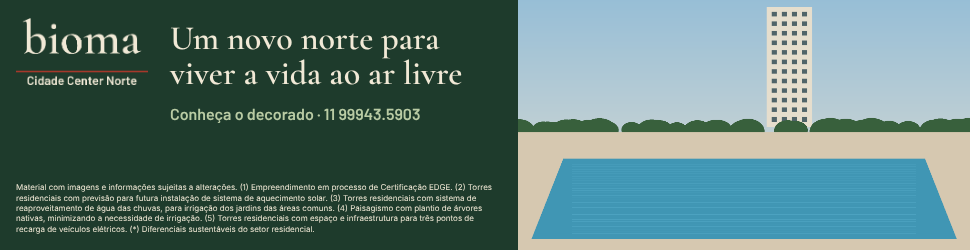
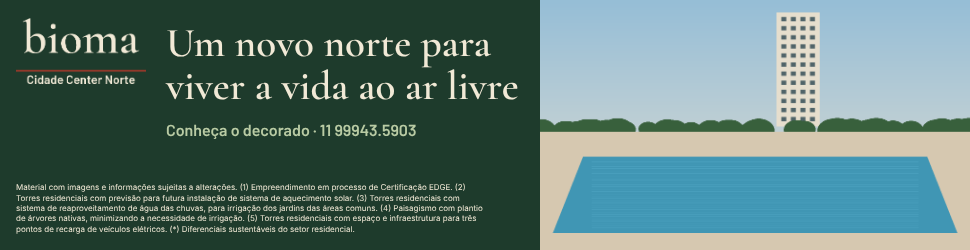
Bancada: replica R3b bioma_piscina e R2 otium_spa
Claude-Session: https://claude.ai/code/session_01FAXgPMdKXzkkk9D8mSifwb

Changed region(s): [[0.0, 0.0, 1.0, 1.0], [0.0, 0.784, 0.4948, 0.952], [0.9897, 0.448, 1.0, 0.476]]

diff --git a/bancada/runs/R01/scripts/R2/bioma_produto.py b/bancada/runs/R01/scripts/R2/bioma_produto.py
@@ -184,13 +184,13 @@ def lay_email(F):
     return [hero, logo, hl, selo, cta, legal]
 
 
-def lay_card(F, shrink=0, hw=0, cs=26, ss=29):
+def lay_card(F, shrink=0, hw=0, cs=26, ss=29, hs=52):
     W, H, M = F["width"], F["height"], F["margin"]
-    xp = 540  # foto ocupa a metade direita, sangrada
+    xp = 560  # foto ocupa a metade direita, sangrada (520px: ~88% do predio visivel)
     tw = xp - 2 * M + 10
     logo = logo_el(M, M, 190)
     lg = logo["geometry"]
-    hl = text_el("headline", M, lg["y"] + lg["height"] + 50, tw - hw, 56)
+    hl = text_el("headline", M, lg["y"] + lg["height"] + 50, tw - hw, hs)
     legal = text_el("legal", M, 0, tw - shrink, 14)
     legal["geometry"]["y"] = H - M - legal["_m"]["box_h"]
     selo = text_el("selo", M, hl["geometry"]["y"] + hl["geometry"]["height"] + 44, tw, ss)
@@ -311,7 +311,7 @@ def near_pairs(F, els, pad=6):
 
 
 GRID = {  # variacoes pequenas e legitimas (largura de coluna, corpo do selo/cta) para fugir de quase-alinhamentos
-    "card_1080x1080": dict(cs=[26, 27], ss=[29, 30, 31], hw=[0, 20, 40]),
+    "card_1080x1080": dict(cs=[26, 27], ss=[29, 30, 31], hw=[0, 20, 40], hs=[48, 50, 52, 54, 56]),
     "banner_970x250": dict(cs=[14, 14.5, 15], ss=[16, 17, 18], hw=[0, 20, 40, 60]),
     "stories_1080x1920": dict(cs=[34], ss=[40], hw=[0, 40, 80]),
 }
@@ -324,11 +324,12 @@ def build(fk, F):
     import itertools
     g = GRID[fk]
     best = None
-    for cs, ss, hw in itertools.product(g["cs"], g["ss"], g["hw"]):
+    for cs, ss, hw, hs in itertools.product(g["cs"], g["ss"], g["hw"], g.get("hs", [None])):
         if ss <= cs:
             continue
+        kw = {"hs": hs} if hs else {}
         for sh in range(0, 44, 4):  # coluna do legal encolhe no maximo 40px (legibilidade)
-            els = fn(F, sh, hw, cs, ss)
+            els = fn(F, sh, hw, cs, ss, **kw)
             E = {e["id"]: (ext(e) if e["type"] == "TEXT" else bx(e)) for e in els}
             A = {k: v["w"] * v["h"] for k, v in E.items()}
             # preserva as relacoes de tamanho da mestra: headline >> legal, selo ~ cta
@@ -336,12 +337,12 @@ def build(fk, F):
             hlm = next(e for e in els if e["id"] == "headline")["_m"]
             widow = hlm["n"] > 1 and " " not in hlm["lines"][-1]  # palavra orfa na ultima linha do titulo
             n = len(near_pairs(F, els)) + 3 * viol + 5 * widow
-            key = (n, hw + sh)
+            key = (n, hw + sh, -(hs or 0))
             if best is None or key < best[0]:
-                best = (key, (sh, hw, cs, ss))
-    sh, hw, cs, ss = best[1]
-    print(f"  {fk}: grid best near={best[0][0]} shrink={sh} hw={hw} cta={cs} selo={ss}")
-    return fn(F, sh, hw, cs, ss)
+                best = (key, (sh, hw, cs, ss, kw))
+    sh, hw, cs, ss, kw = best[1]
+    print(f"  {fk}: grid best pen={best[0][0]} shrink={sh} hw={hw} cta={cs} selo={ss} {kw}")
+    return fn(F, sh, hw, cs, ss, **kw)
 
 
 def main():

diff --git a/bancada/runs/R01/scripts/R2/bioma_piscina.py b/bancada/runs/R01/scripts/R2/bioma_piscina.py
@@ -300,7 +300,8 @@ def banner(fk, P):
     cs = style_of("cta", P["c"])
     cw_, cb = robust_width(S["cta"]["text"], cs, right - hx)
     ls = style_of("legal", P["l"], P.get("llh", 1.3))
-    lb = block(S["legal"]["text"], ls, right - m - 4)
+    lwid = P.get("legal_w", right - m)
+    lb = block(S["legal"]["text"], ls, lwid - 4)
     hv = hb["ext_bottom"] + hb["top_over"]
     cv = cb["ext_bottom"] + cb["top_over"]
     lv = lb["ext_bottom"] + lb["top_over"]
@@ -310,14 +311,14 @@ def banner(fk, P):
     cy = top + hv + P["g_hc"]
     els.append(text_el("cta", hx, cy + cb["top_over"], cw_, st(P["c"]), cb))
     ly = H - m - lv
-    els.append(text_el("legal", m, ly + lb["top_over"], right - m, st(P["l"], P.get("llh", 1.3)), lb))
+    els.append(text_el("legal", m, ly + lb["top_over"], lwid, st(P["l"], P.get("llh", 1.3)), lb))
     if cy + cv + 6 > ly:
         print("  !! banner: cta encosta no legal", cy + cv, ly, file=sys.stderr)
     return els
 
 
 PARAMS = {
-    "email_600x1200": (stack_vertical, {"logo": 180, "h": 52, "c": 24, "l": 10.5, "llh": 1.4,
+    "email_600x1200": (stack_vertical, {"logo": 180, "h": 55, "c": 24, "l": 10, "llh": 1.4,
                                          "gaps": [34, 44, 40, 20], "min_cw": 0.80}),
     "post_1080x1350": (stack_vertical, {"logo": 230, "h": 70, "c": 32, "l": 14, "llh": 1.3,
                                          "gaps": [44, 48, 44, 22], "min_cw": 0.86}),
@@ -325,7 +326,7 @@ PARAMS = {
                               "g_top": 44, "g_pc": 36, "g_cl": 16}),
     "stories_1080x1920": (stories, {"cw": 0.80, "g_photo": 64, "logo": 280, "h": 86, "c": 38, "l": 17,
                                     "gaps": [44, 48, 30]}),
-    "banner_970x250": (banner, {"photo_w": 430, "gutter": 20, "logo": 130, "col_gap": 20, "h": 40, "c": 16,
+    "banner_970x250": (banner, {"photo_w": 430, "gutter": 20, "logo": 130, "col_gap": 20, "h": 41, "c": 16, "legal_w": 470,
                                 "l": 8, "llh": 1.3, "g_hc": 10, "top": 2}),
 }
 
